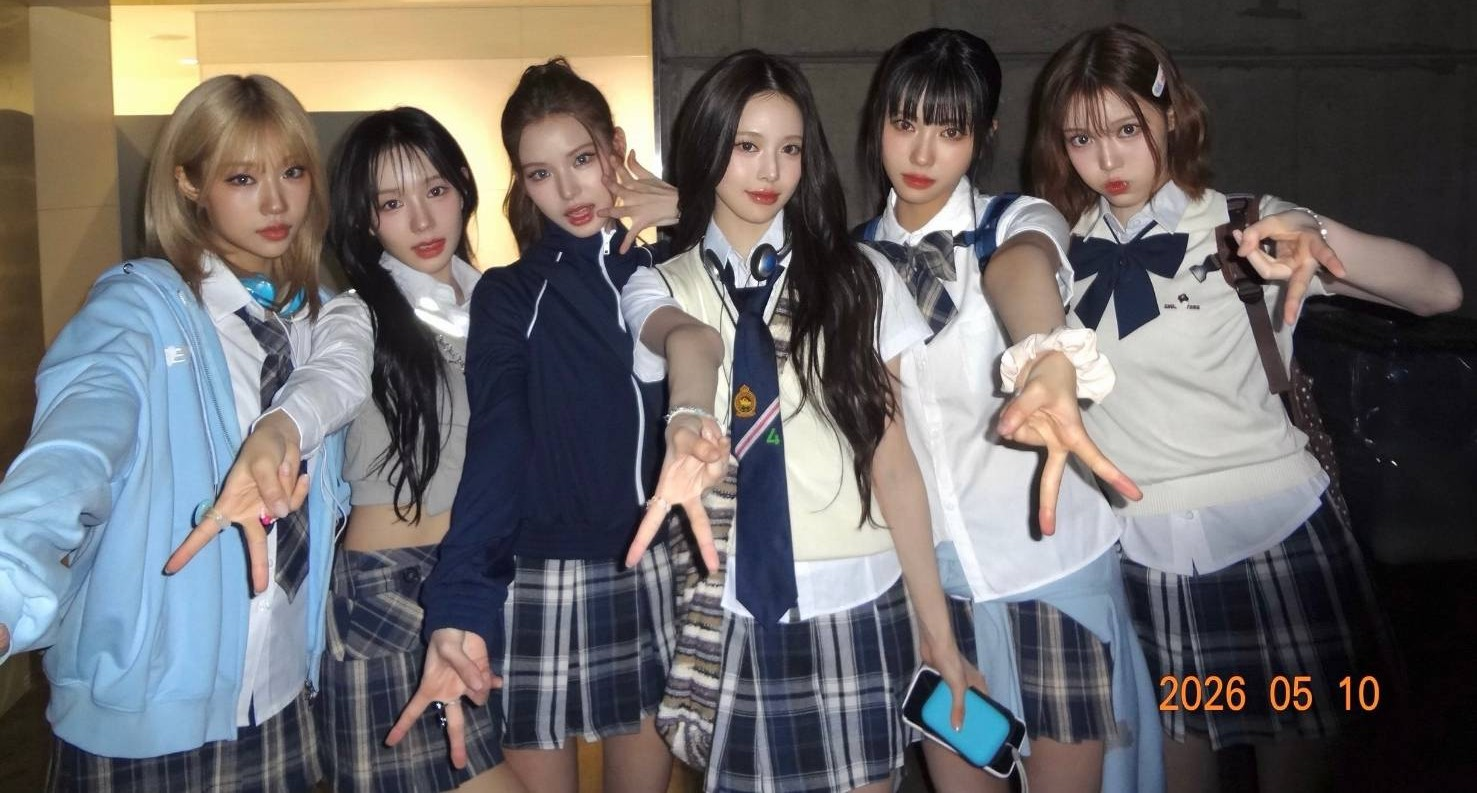
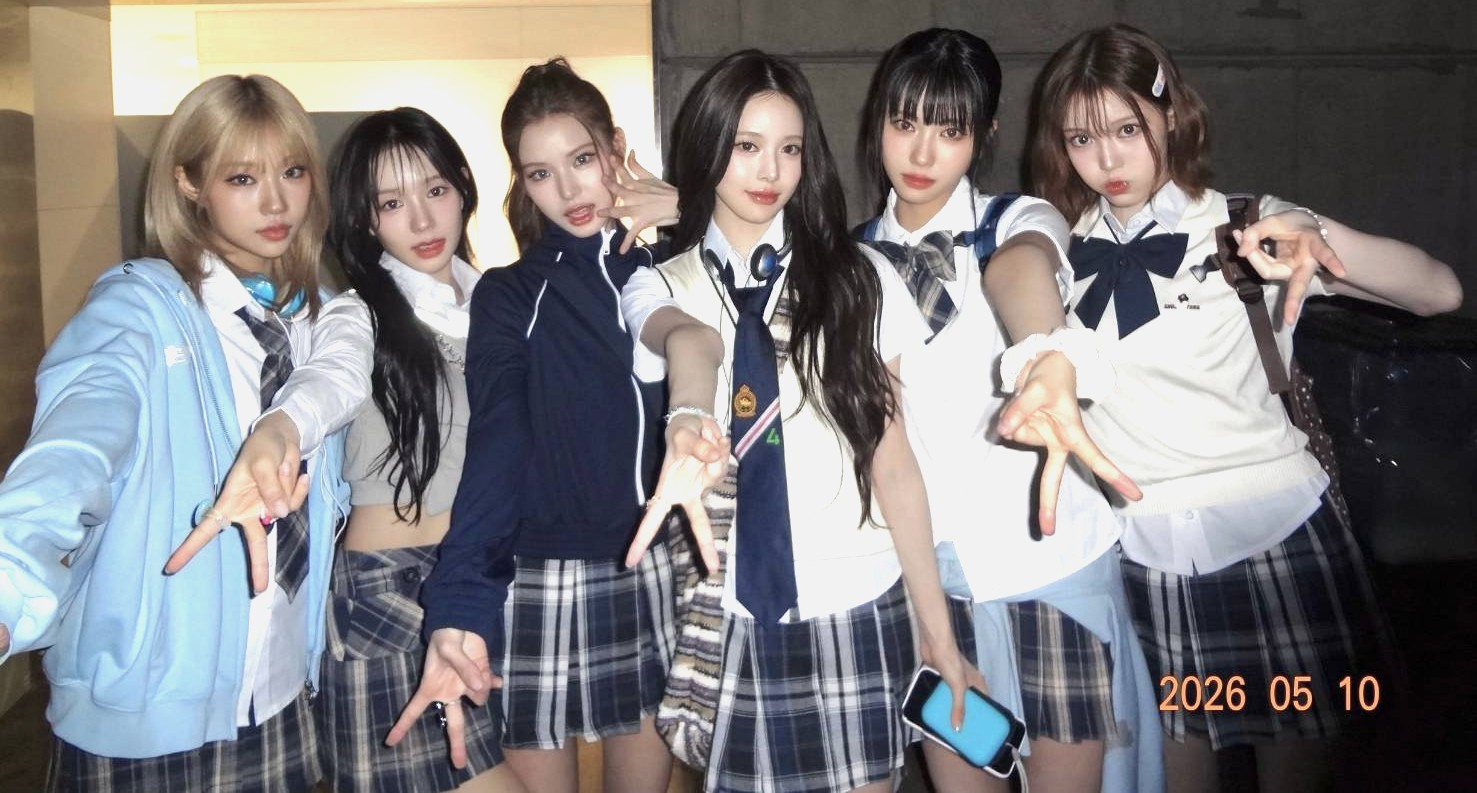
upade

diff --git a/index.html b/index.html
@@ -3,7 +3,7 @@
 
 <head><!--設定頁面基本資訊+外部連結-->
 <meta charset="utf-8">
-<title>作品集</title>
+<title>EATNA</title>
 <link href="css/ex2.css" rel="stylesheet" type="text/css">
 </head>
 
